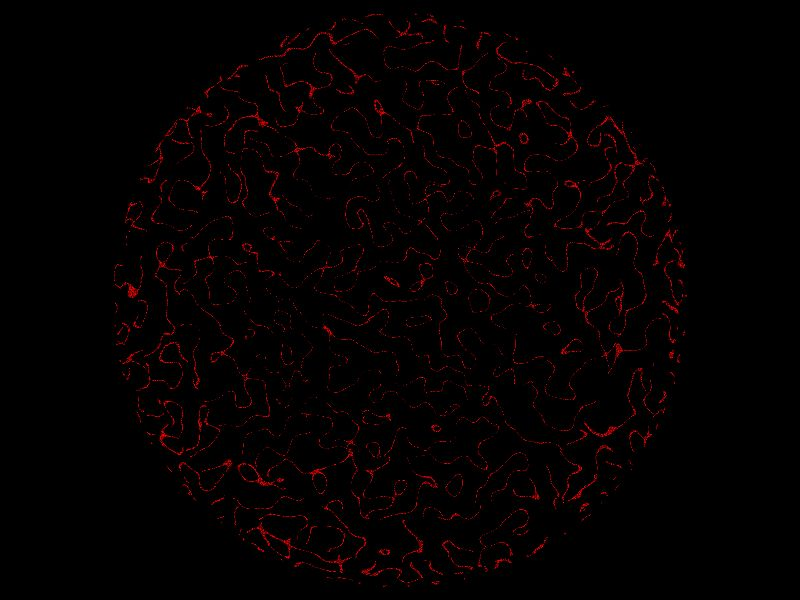
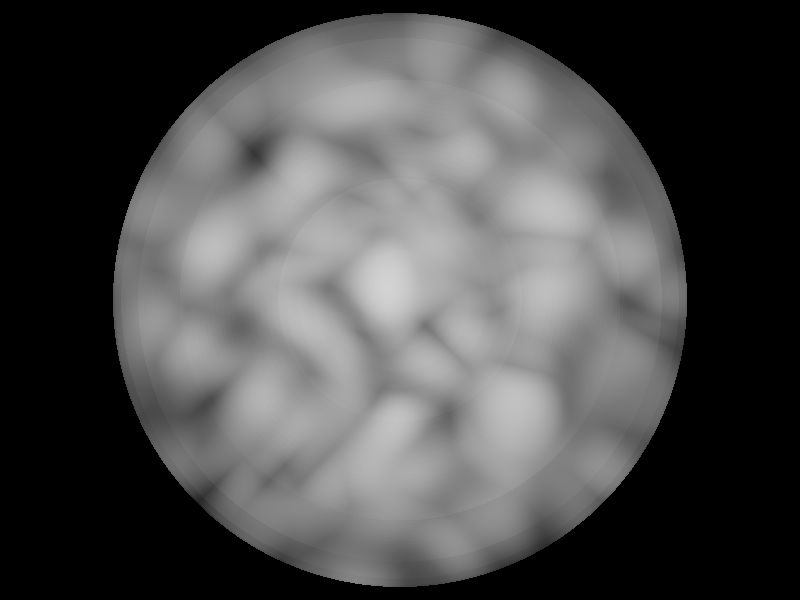
Some changes in noise and linear density

diff --git a/VolumetricCloud.go b/VolumetricCloud.go
@@ -26,20 +26,22 @@ func distanciaEsfera(punto Vectores.Vector) float64 {
 func calculaDensidadLineal(punto Vectores.Vector, longitud float64) float64 {
 	var noiseValue float64 = 0
 
-	noiseValue = Ruido.Noise3(punto.X, punto.Y, punto.Z)
-	//noiseValue = Ruido.Worley3D(punto)
-	return noiseValue * longitud
-}
+	//punto.MultiplyByScalar(NOISEZOOM)
 
+	noiseValue = (Ruido.Noise3(punto.X*NOISEZOOM, punto.Y*NOISEZOOM, punto.Z*NOISEZOOM)) * 0.015
+	//noiseValue = Ruido.Worley3D(punto) * 0.0025
+	return math.Abs(noiseValue * longitud)
+}
 
 // Implementación de niebla según idea de Íñigo Quílez.
 // https://iquilezles.org/www/articles/fog/fog.htm
 func applyFog(color color.RGBA, distancia float64, densidad float64) color.RGBA {
 	var fogAmount float32 = 0.0
 
-	fogAmount = float32(1.0 - math.Pow(math.E, -distancia*densidad))
+	fogAmount = float32(1.0 - math.Pow(math.E, -distancia*densidad)) //* 1.5
 
-	return mixColor(color, BACKGROUNDCOLOR, fogAmount)
+	//return mixColor( color, BACKGROUNDCOLOR, fogAmount)
+	return mixColor(BACKGROUNDCOLOR, color, fogAmount)
 }
 
 // Interpolación entre dos colores.
@@ -61,9 +63,7 @@ func raymarch(ro Vectores.Vector, rd Vectores.Vector) color.RGBA {
 	var densidad float64 = 0
 	var longitud float64 = 0
 
-
 	var color = BACKGROUNDCOLOR
-
 
 	for x := 0; x < MAXSTEPS; x++ {
 		punto = ro.Add(rd.MultiplyByScalar(t))
@@ -74,7 +74,8 @@ func raymarch(ro Vectores.Vector, rd Vectores.Vector) color.RGBA {
 			//return NOISECOLOR
 
 			for distancia < RADIO_ESFERA {
-				densidad += calculaDensidadLineal(punto, longitud)
+				//densidad += calculaDensidadLineal(punto, longitud)
+				densidad += calculaDensidadLineal(punto, STEP)
 				longitud += STEP
 				punto = ro.Add(rd.MultiplyByScalar(t + longitud))
 				distancia = distanciaEsfera(punto)
@@ -111,7 +112,6 @@ func main() {
 	fileOut = argsWithoutProg[0]
 
 	fmt.Printf("Files Out %s\n", fileOut)
-
 
 	img := image.NewRGBA(image.Rect(0, 0, WIDTH, HEIGHT))
 	out, err := os.Create(fileOut)

diff --git a/Definiciones.go b/Definiciones.go
@@ -11,7 +11,7 @@ const CTEOCTAEDRO = 0.57735027
 
 var EYE = Vectores.Vector{0, 0, 0}
 var BACKGROUNDCOLOR = color.RGBA{R: 0, G: 0, B: 0, A: 255}
-var NOISECOLOR = color.RGBA{R: 250, G: 0, B: 0, A: 255}
+var NOISECOLOR = color.RGBA{R: 250, G: 250, B: 250, A: 255}
 
 var WIDTH int = 800
 var HEIGHT int = 600
@@ -26,8 +26,8 @@ var MINIMUM_HIT_DISTANCE = 0.35
 
 var currentColor color.RGBA
 
-
 var CurrentMaterial int
 
-const STEP float64 = 1.5
+const STEP float64 = .1
 const RADIO_ESFERA float64 = 5
+const NOISEZOOM = 0.25
